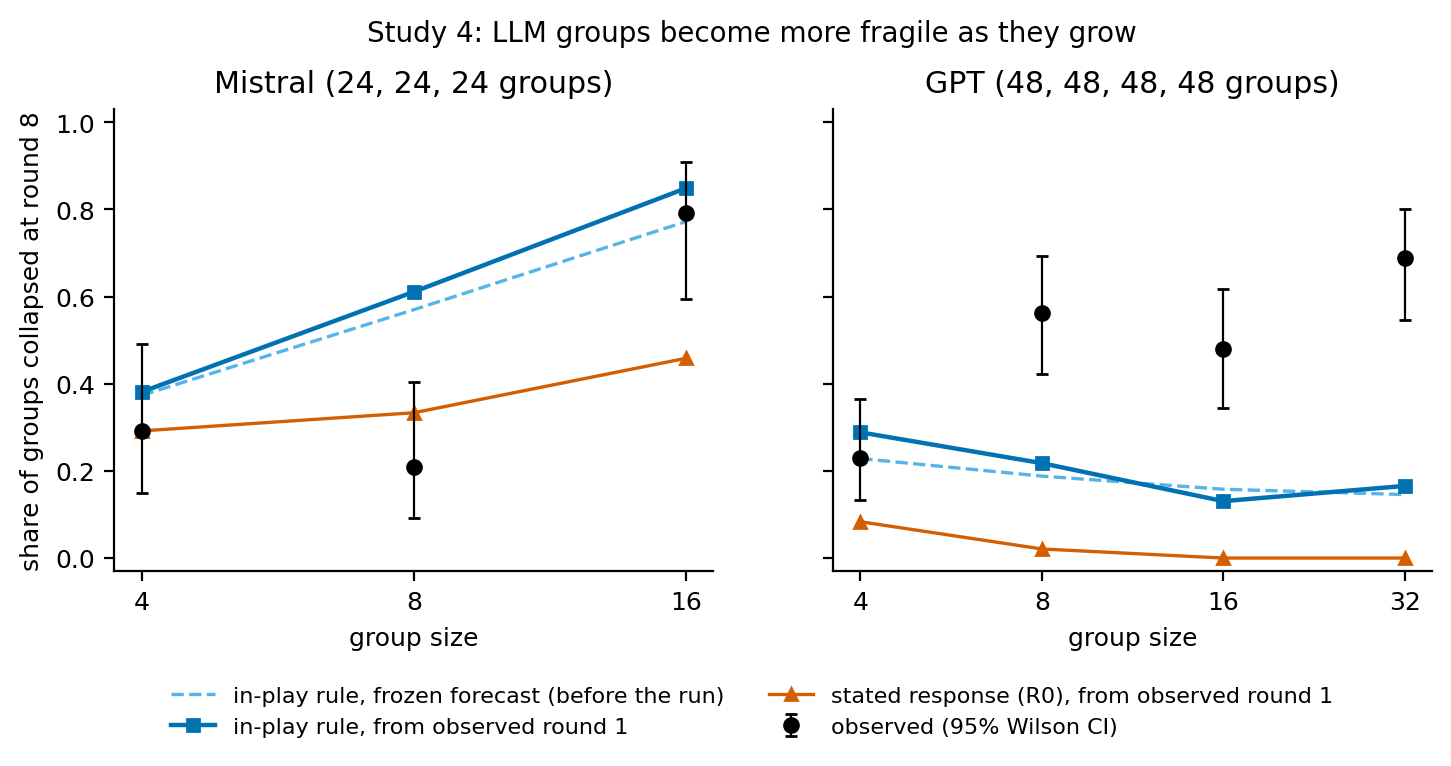
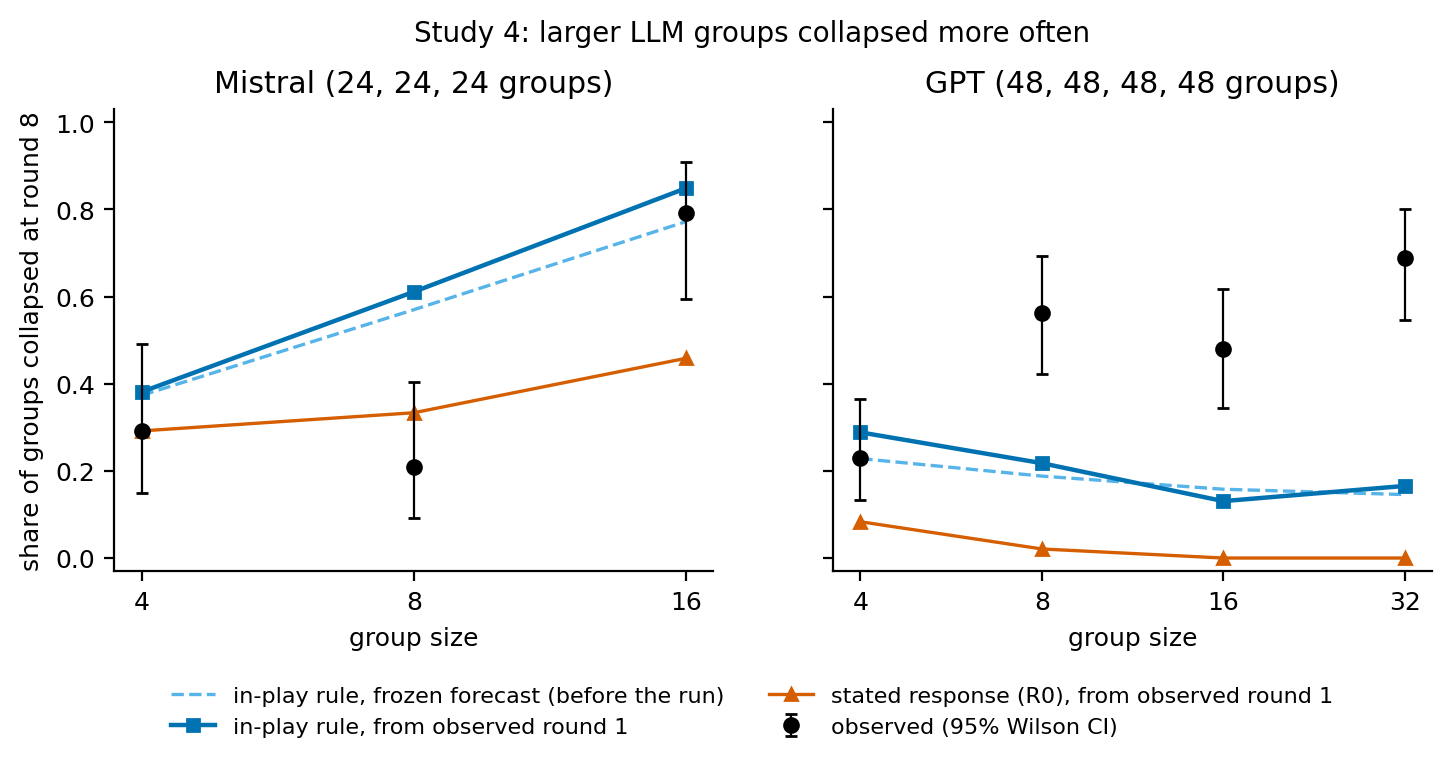
paper v5: scaling wording (larger groups, not monotonic), Figure 5 title

Changed region(s): [[0.2481, 0.03, 0.7753, 0.0601]]

diff --git a/paper/figures.py b/paper/figures.py
@@ -177,7 +177,7 @@ def fig5_scaling():
     axes[0].set_ylabel("share of groups collapsed at round 8")
     h, lab = axes[0].get_legend_handles_labels()
     fig.legend(h, lab, frameon=False, fontsize=8, loc="lower center", ncol=2, bbox_to_anchor=(0.5, -0.2))
-    fig.suptitle("Study 4: LLM groups become more fragile as they grow", y=1.03, fontsize=10)
+    fig.suptitle("Study 4: larger LLM groups collapsed more often", y=1.03, fontsize=10)
     fig.savefig(OUT / "fig5_scaling.png")
     plt.close(fig)
 

diff --git a/paper/draft_v5.md b/paper/draft_v5.md
@@ -343,7 +343,7 @@ The stated responses (R0) predict no size effect for Mistral in the frozen forec
 
 **Results** (`results/expC_main_20261020_analysis.json`; 264 groups, 56.67 USD; Figure 5). Every run completed; no invalid answers (4 GPT answers that could not be parsed were re-requested); model versions as before.
 
-- **Both models collapsed more often as groups grew (C-H1 "increase" in both).**
+- **Both models collapsed more often in larger groups (C-H1 "increase" in both; not monotonic in between).**
   - Mistral: 0.29 of groups at n = 4, 0.21 at 8 and 0.79 at 16 were in the collapse region at round 8; 16 − 4 = +0.50 [+0.29, +0.71].
   - GPT: 0.23, 0.56, 0.48 and 0.69 at n = 4, 8, 16 and 32; 32 − 4 = +0.46 [+0.29, +0.63].
   - The labels were the same against the historical four-agent groups of Studies 1–2.
